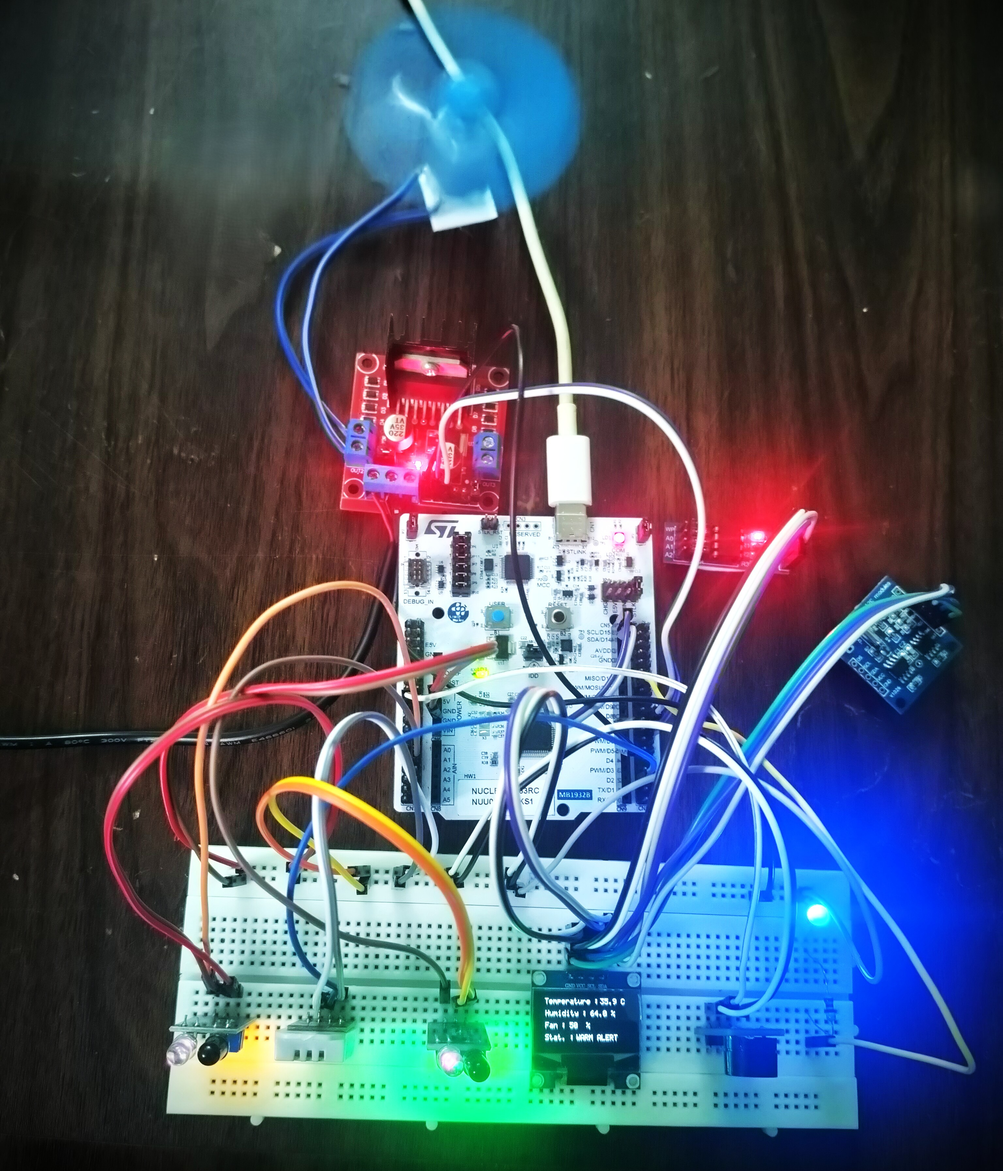
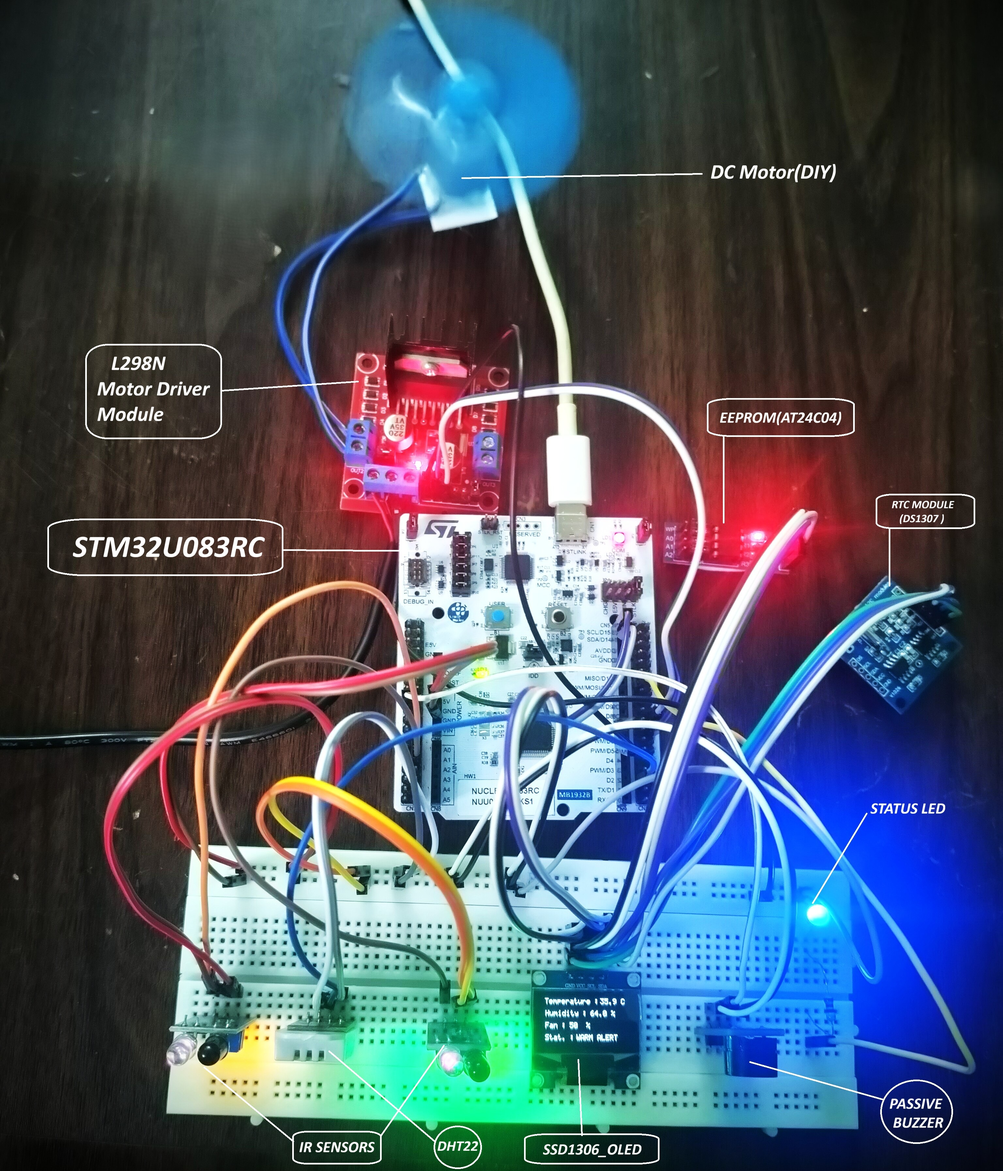
Update project documentation and hardware setup

diff --git a/README.md b/README.md
@@ -39,7 +39,7 @@ Temperature, humidity, and occupancy monitoring system with PWM fan control, FSM
 IR sensor based visitor counting system with FSM direction detection, EEPROM persistence, and wrong-direction warning system.
 
 <p align="center">
-  <img src="Projects/Visitor_Counter/V2/Images/Hardware_Setup_front_view.jpg" width="700">
+  <img src="Projects/Visitor_Counter/V2/Images/Hardware_Setup.jpg" width="700">
 </p>
 
 | Version | What it adds |
